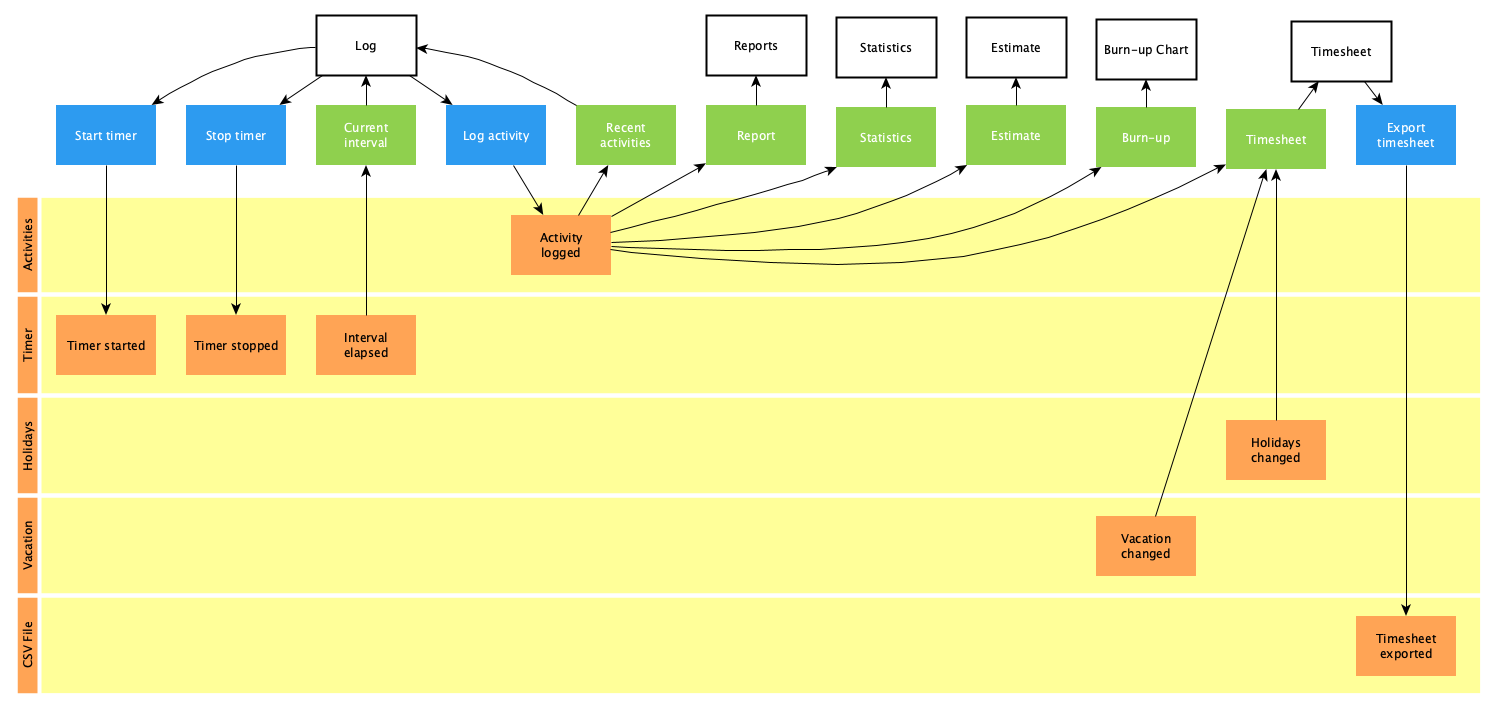
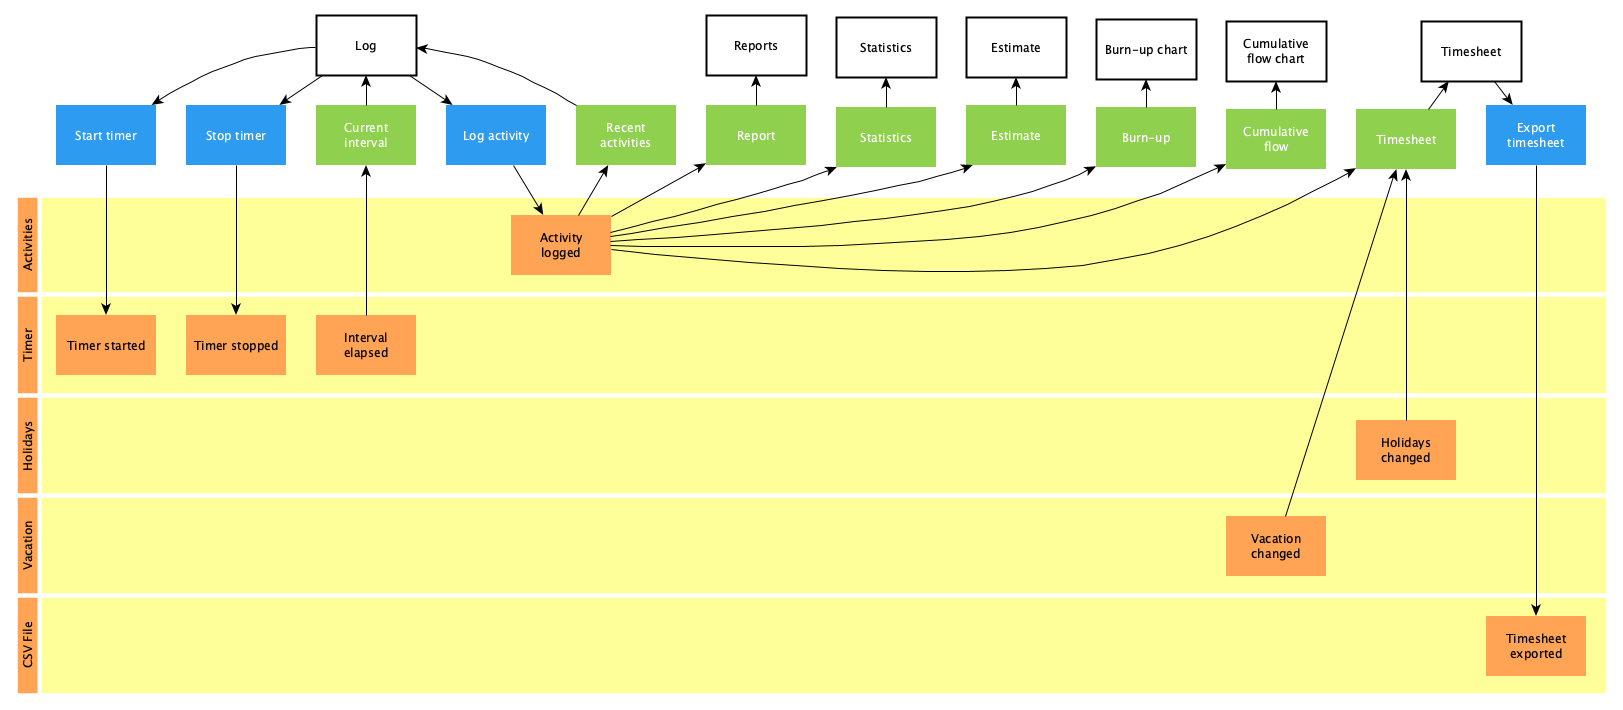
docs: update stories

diff --git a/doc/README.md b/doc/README.md
@@ -42,8 +42,6 @@ Stories marked with ❗are planned for the next release.
 - [ ] Summarize hours worked for team members
 - [x] Summarize the total hours worked
 - [x] Summarize in a period
-- [ ] Determine throughput in a period
-- [ ] Create cumulative flow diagram with cycle time, throughput and WIP
 - [ ] Optionally aggregate clients of same project
 - [ ] Filter projects by client
 - [ ] Optionally aggregate categories of same task
@@ -70,9 +68,19 @@ Stories marked with ❗are planned for the next release.
 
 ### Burn-Up
 
-- [ ] ❗Display done tasks over time
-- [ ] ❗Display work in progress tasks over time
+- [ ] ❗Determine tasks done over time
+- [ ] ❗Filter tasks in a period
 - [ ] ❗Filter tasks by category
+
+### Cumulative Flow
+
+- [ ] Determine tasks done over time
+- [ ] Determine tasks work in progress over time
+- [ ] Determine cycle time
+- [ ] Determine throughput and WIP
+- [ ] Determine WIP
+- [ ] Filter tasks in a period
+- [ ] Filter tasks by category
 
 ### Timesheet
 
